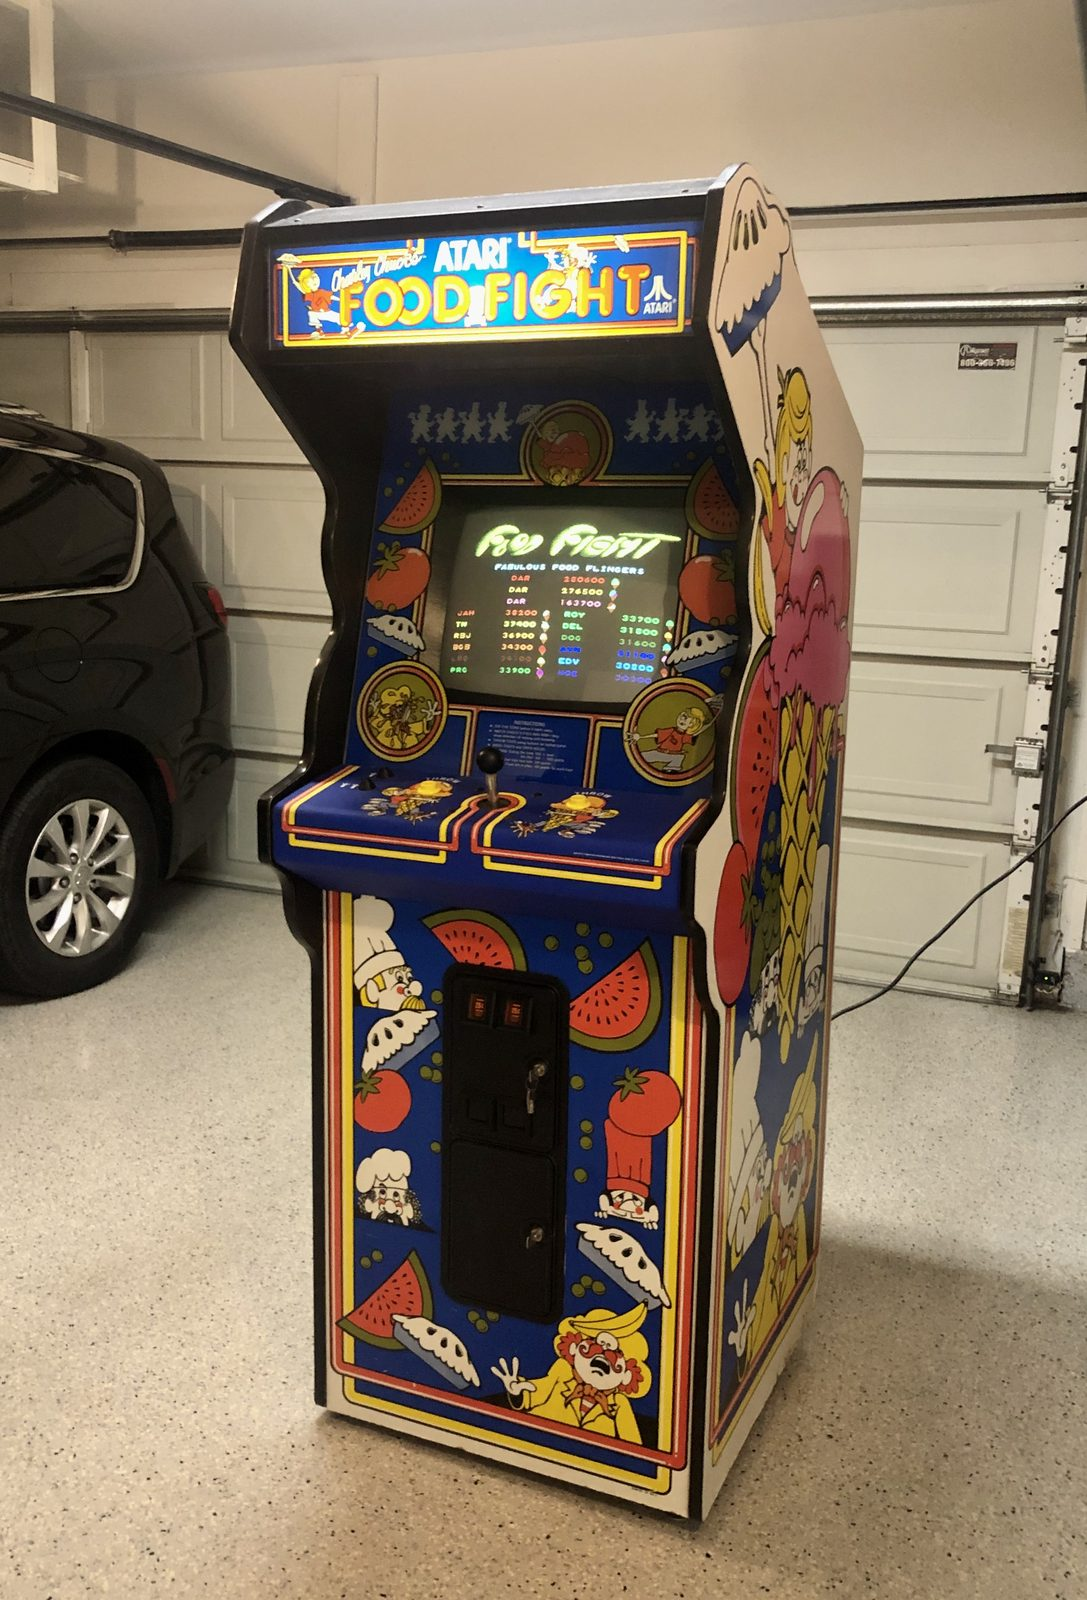
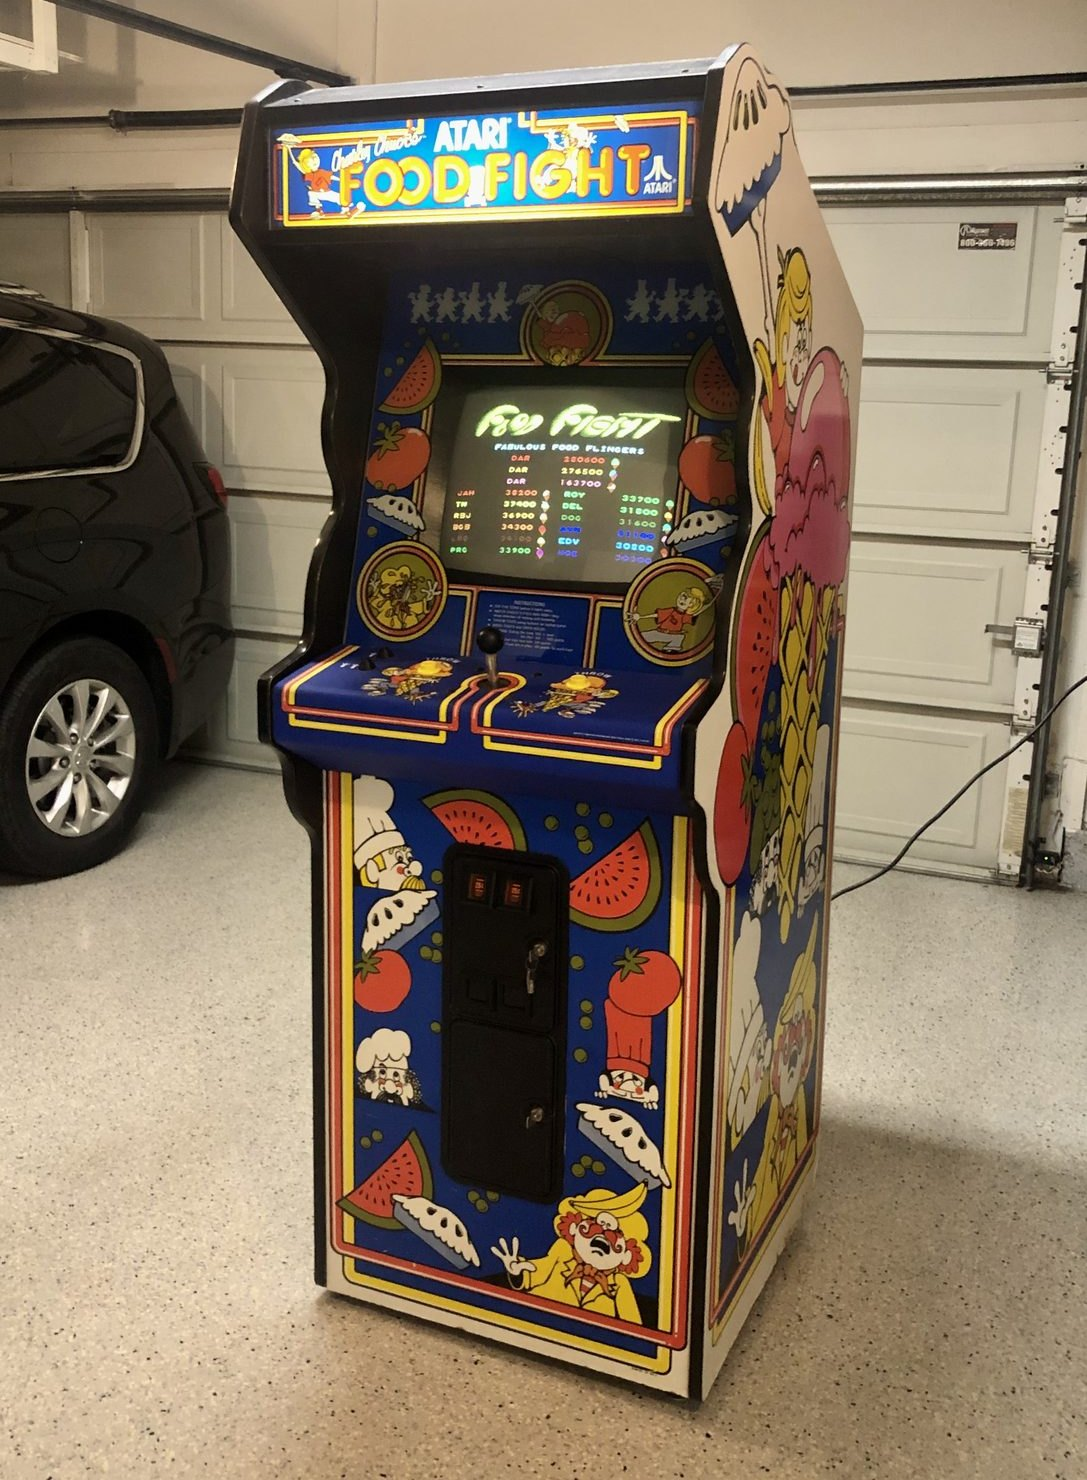
Crop the empty ceiling off the Food Fight memoriam shot

diff --git a/games.html b/games.html
@@ -302,7 +302,7 @@
       <figure class="shot"><img src="media/thumbs/alumni-playchoice-upright.jpg" data-full="media/2026/alumni-playchoice-upright.jpg" alt="Nintendo PlayChoice-10 upright cabinet running Mike Tyson's Punch-Out" loading="lazy" width="800" height="1067"><figcaption><b>PlayChoice-10 upright</b></figcaption></figure>
       <figure class="shot"><img src="media/thumbs/alumni-nintendo-super-system.jpg" data-full="media/2026/alumni-nintendo-super-system.jpg" alt="Nintendo Super System arcade cabinet running Donkey Kong Country" loading="lazy" width="800" height="1000"><figcaption><b>Nintendo Super System</b></figcaption></figure>
       <figure class="shot"><img src="media/thumbs/alumni-sega-blast-city.jpg" data-full="media/2026/alumni-sega-blast-city.jpg" alt="Sega Blast City candy cabinet with Street Fighter II marquee running Vampire Savior" loading="lazy" width="800" height="1000"><figcaption><b>Sega Blast City</b></figcaption></figure>
-      <figure class="shot"><img src="media/thumbs/alumni-food-fight.jpg" data-full="media/2026/alumni-food-fight.jpg" alt="Atari Food Fight arcade cabinet with full side art, high score table on screen" loading="lazy" width="800" height="1178"><figcaption><b>Atari Food Fight</b></figcaption></figure>
+      <figure class="shot"><img src="media/thumbs/alumni-food-fight.jpg?v=2" data-full="media/2026/alumni-food-fight.jpg?v=2" alt="Atari Food Fight arcade cabinet with full side art, high score table on screen" loading="lazy" width="800" height="1089"><figcaption><b>Atari Food Fight</b></figcaption></figure>
       <figure class="shot"><img src="media/thumbs/alumni-r-type.jpg" data-full="media/2026/alumni-r-type.jpg" alt="Nintendo R-Type arcade cabinet with side art" loading="lazy" width="800" height="978"><figcaption><b>Nintendo R-Type</b></figcaption></figure>
       <figure class="shot"><img src="media/thumbs/alumni-dk-junior.jpg" data-full="media/2026/alumni-dk-junior.jpg" alt="Donkey Kong Junior arcade cabinet in orange" loading="lazy" width="800" height="999"><figcaption><b>Donkey Kong Junior</b></figcaption></figure>
       <figure class="shot"><img src="media/thumbs/alumni-smb-pinball.jpg" data-full="media/2026/alumni-smb-pinball.jpg" alt="Gottlieb Super Mario Bros. pinball machine in blue" loading="lazy" width="800" height="1000"><figcaption><b>Gottlieb Super Mario Bros. pinball</b></figcaption></figure>
